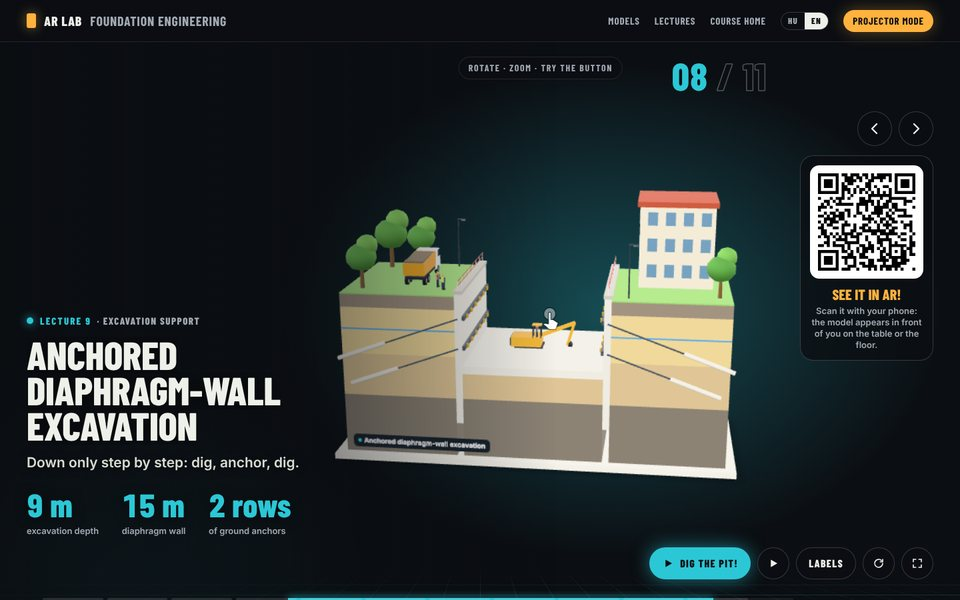
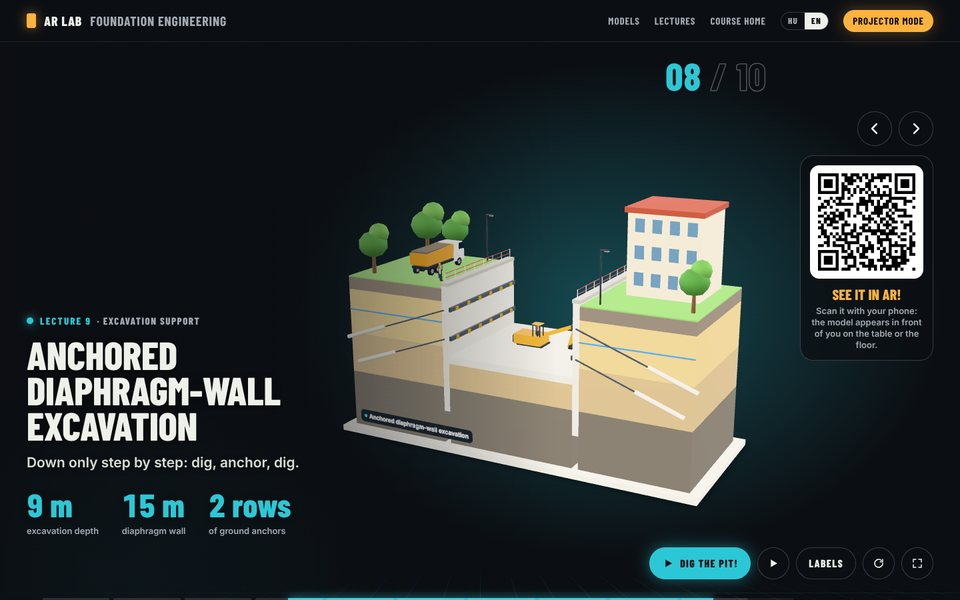
Nyitóoldal: az AR labor kártyaképe új néven (ar-labor3), hogy a gyorsítótár ne a régit mutassa
Az /img alatti képek egy hétig gyorsítótárazódnak, ezért a megújult kártyakép új fájlnevet kap;
a korábbi ar-labor2 képek változatlanul megmaradnak (már nincs rájuk hivatkozás).

Claude-Session: https://claude.ai/code/session_01K6m2UEhsxB7yVkYJfvnvra

Changed region(s): [[0.3438, 0.3, 0.7812, 0.84], [0.6875, 0.09, 0.8125, 0.15], [0.4688, 0.09, 0.6562, 0.12]]

diff --git a/en.html b/en.html
@@ -1716,7 +1716,7 @@ const XS = (() => {
     { t: 'One site, one semester', u: 'bme-alapozas.vercel.app/telek', en: 'bme-alapozas.vercel.app/telek/en', img: 'telek-en', lab: '1–9', d: 'Nine stations on a single site: you are the geotechnical engineer, and with every task you solve the 3D model of the two buildings grows further, from investigating the ground to the last floor slab.' },
     { t: 'Geotechnical CSI', u: 'bme-alapozas.vercel.app/helyszinelok', en: 'bme-alapozas.vercel.app/helyszinelok/en', img: 'helyszinelok-en', lab: '3–9', d: 'Real and typical foundation failure cases: work out from the clues what happened and what would have prevented it. With ranks, points and a crack-reading game.' },
     { t: 'Guess, then calculate', u: 'bme-alapozas.vercel.app/tippelj', en: 'bme-alapozas.vercel.app/tippelj/en', img: 'tippelj-en', lab: '1–9', d: 'Estimation questions for every lecture: first you guess on a logarithmic scale, then you check the calculation. In lectures, in projector mode with a QR code.' },
-    { t: 'Foundation Engineering AR lab', u: 'bme-alapozas.vercel.app/ar-labor', en: 'bme-alapozas.vercel.app/ar-labor/en', img: 'ar-labor2-en', lab: '1–9', d: 'Eleven moving 3D models in augmented reality – bearing failure, the pressure bulb and the influence depth, the Leaning Tower of Pisa, a shaking table, a CFA pile, an excavation, the finished site and four real sites from MOL Campus to the Museum of Ethnography. On a phone you can place them on a table or the floor and walk around them.' },
+    { t: 'Foundation Engineering AR lab', u: 'bme-alapozas.vercel.app/ar-labor', en: 'bme-alapozas.vercel.app/ar-labor/en', img: 'ar-labor3-en', lab: '1–9', d: 'Eleven moving 3D models in augmented reality – bearing failure, the pressure bulb and the influence depth, the Leaning Tower of Pisa, a shaking table, a CFA pile, an excavation, the finished site and four real sites from MOL Campus to the Museum of Ethnography. On a phone you can place them on a table or the floor and walk around them.' },
   ];
   X.forEach(a => { el('a', { cls: 'ac wide', href: AU(a), target: '_blank', rel: 'noopener', style: '--c:var(--accent)' }, box, `<span class="im"><img src="img/apps/${a.img}.jpg" alt="${a.t} – opening screen" loading="lazy" width="960" height="600"><i>${a.lab}</i></span><span class="tx"><b>${a.t}</b><span>${AT(a)}</span><p class="acd">${a.d}</p><em>${a.en ? 'Open' : 'Open · in Hungarian'} ↗</em></span>`);
     el('li', {}, fl, `<i>${a.lab}</i><a href="${AU(a)}" target="_blank" rel="noopener">${a.t}</a>${EN && !a.en ? ' <span class="inhu">HU</span>' : ''}`); });

diff --git a/index.html b/index.html
@@ -1717,7 +1717,7 @@ const XS = (() => {
     { t: 'Egy telek, egy félév', u: 'bme-alapozas.vercel.app/telek', img: 'telek', lab: '1–9', d: 'Kilenc állomás egyetlen telken: te vagy a geotechnikus, és minden megoldott feladattal tovább épül a két ház 3D-makettje, a talaj megismerésétől az utolsó födémig.' },
     { t: 'Geotechnikai helyszínelők', u: 'bme-alapozas.vercel.app/helyszinelok', en: 'bme-alapozas.vercel.app/helyszinelok/en', img: 'helyszinelok', lab: '3–9', d: 'Valós és tipikus alapozási kárügyek: a nyomokból kell kideríteni, mi történt, és mi előzte volna meg. Rangokkal, pontokkal és repedésolvasó játékkal.' },
     { t: 'Tippelj, aztán számolj', u: 'bme-alapozas.vercel.app/tippelj', en: 'bme-alapozas.vercel.app/tippelj/en', img: 'tippelj', lab: '1–9', d: 'Becslős kérdések minden előadáshoz: előbb tippelsz egy logaritmikus skálán, aztán megnézed a számítást. Előadáson kivetítő módban, QR-kóddal.' },
-    { t: 'Alapozás AR labor', u: 'bme-alapozas.vercel.app/ar-labor', img: 'ar-labor2', lab: '1–9', d: 'Tizenegy mozgó 3D-modell kiterjesztett valóságban – talajtörés, feszültséghagyma és határmélység, a pisai torony, rázóasztal, CFA-cölöp, munkagödör, a kész telek és négy valós helyszín a MOL Campustól a Néprajzi Múzeumig. Telefonon az asztalra vagy a padlóra tehetők, körbejárhatók.' },
+    { t: 'Alapozás AR labor', u: 'bme-alapozas.vercel.app/ar-labor', img: 'ar-labor3', lab: '1–9', d: 'Tizenegy mozgó 3D-modell kiterjesztett valóságban – talajtörés, feszültséghagyma és határmélység, a pisai torony, rázóasztal, CFA-cölöp, munkagödör, a kész telek és négy valós helyszín a MOL Campustól a Néprajzi Múzeumig. Telefonon az asztalra vagy a padlóra tehetők, körbejárhatók.' },
   ];
   X.forEach(a => { el('a', { cls: 'ac wide', href: AU(a), target: '_blank', rel: 'noopener', style: '--c:var(--accent)' }, box, `<span class="im"><img src="img/apps/${a.img}.jpg" alt="${a.t} – nyitókép" loading="lazy" width="960" height="600"><i>${a.lab}</i></span><span class="tx"><b>${a.t}</b><span>${AT(a)}</span><p class="acd">${a.d}</p><em>Megnyitás ↗</em></span>`);
     el('li', {}, fl, `<i>${a.lab}</i><a href="${AU(a)}" target="_blank" rel="noopener">${a.t}</a>${EN && !a.en ? ' <span class="inhu">HU</span>' : ''}`); });

diff --git a/_src/app.js b/_src/app.js
@@ -587,7 +587,7 @@ const XS = (() => {
     { t: 'Egy telek, egy félév', u: 'bme-alapozas.vercel.app/telek', img: 'telek', lab: '1–9', d: 'Kilenc állomás egyetlen telken: te vagy a geotechnikus, és minden megoldott feladattal tovább épül a két ház 3D-makettje, a talaj megismerésétől az utolsó födémig.' },
     { t: 'Geotechnikai helyszínelők', u: 'bme-alapozas.vercel.app/helyszinelok', en: 'bme-alapozas.vercel.app/helyszinelok/en', img: 'helyszinelok', lab: '3–9', d: 'Valós és tipikus alapozási kárügyek: a nyomokból kell kideríteni, mi történt, és mi előzte volna meg. Rangokkal, pontokkal és repedésolvasó játékkal.' },
     { t: 'Tippelj, aztán számolj', u: 'bme-alapozas.vercel.app/tippelj', en: 'bme-alapozas.vercel.app/tippelj/en', img: 'tippelj', lab: '1–9', d: 'Becslős kérdések minden előadáshoz: előbb tippelsz egy logaritmikus skálán, aztán megnézed a számítást. Előadáson kivetítő módban, QR-kóddal.' },
-    { t: 'Alapozás AR labor', u: 'bme-alapozas.vercel.app/ar-labor', img: 'ar-labor2', lab: '1–9', d: 'Tizenegy mozgó 3D-modell kiterjesztett valóságban – talajtörés, feszültséghagyma és határmélység, a pisai torony, rázóasztal, CFA-cölöp, munkagödör, a kész telek és négy valós helyszín a MOL Campustól a Néprajzi Múzeumig. Telefonon az asztalra vagy a padlóra tehetők, körbejárhatók.' },
+    { t: 'Alapozás AR labor', u: 'bme-alapozas.vercel.app/ar-labor', img: 'ar-labor3', lab: '1–9', d: 'Tizenegy mozgó 3D-modell kiterjesztett valóságban – talajtörés, feszültséghagyma és határmélység, a pisai torony, rázóasztal, CFA-cölöp, munkagödör, a kész telek és négy valós helyszín a MOL Campustól a Néprajzi Múzeumig. Telefonon az asztalra vagy a padlóra tehetők, körbejárhatók.' },
   ];
   X.forEach(a => { el('a', { cls: 'ac wide', href: AU(a), target: '_blank', rel: 'noopener', style: '--c:var(--accent)' }, box, `<span class="im"><img src="img/apps/${a.img}.jpg" alt="${a.t} – nyitókép" loading="lazy" width="960" height="600"><i>${a.lab}</i></span><span class="tx"><b>${a.t}</b><span>${AT(a)}</span><p class="acd">${a.d}</p><em>Megnyitás ↗</em></span>`);
     el('li', {}, fl, `<i>${a.lab}</i><a href="${AU(a)}" target="_blank" rel="noopener">${a.t}</a>${EN && !a.en ? ' <span class="inhu">HU</span>' : ''}`); });

diff --git a/_src/i18n_en.py b/_src/i18n_en.py
@@ -398,7 +398,7 @@ JS = [
      "{ t: 'Geotechnical CSI', u: 'bme-alapozas.vercel.app/helyszinelok', en: 'bme-alapozas.vercel.app/helyszinelok/en', img: 'helyszinelok-en', lab: '3–9', d: 'Real and typical foundation failure cases: work out from the clues what happened and what would have prevented it. With ranks, points and a crack-reading game.' },"),
     ("{ t: 'Tippelj, aztán számolj', u: 'bme-alapozas.vercel.app/tippelj', en: 'bme-alapozas.vercel.app/tippelj/en', img: 'tippelj', lab: '1–9', d: 'Becslős kérdések minden előadáshoz: előbb tippelsz egy logaritmikus skálán, aztán megnézed a számítást. Előadáson kivetítő módban, QR-kóddal.' },",
      "{ t: 'Guess, then calculate', u: 'bme-alapozas.vercel.app/tippelj', en: 'bme-alapozas.vercel.app/tippelj/en', img: 'tippelj-en', lab: '1–9', d: 'Estimation questions for every lecture: first you guess on a logarithmic scale, then you check the calculation. In lectures, in projector mode with a QR code.' },"),
-    ("{ t: 'Alapozás AR labor', u: 'bme-alapozas.vercel.app/ar-labor', img: 'ar-labor2', lab: '1–9', d: 'Tizenegy mozgó 3D-modell kiterjesztett valóságban – talajtörés, feszültséghagyma és határmélység, a pisai torony, rázóasztal, CFA-cölöp, munkagödör, a kész telek és négy valós helyszín a MOL Campustól a Néprajzi Múzeumig. Telefonon az asztalra vagy a padlóra tehetők, körbejárhatók.' },",
-     "{ t: 'Foundation Engineering AR lab', u: 'bme-alapozas.vercel.app/ar-labor', en: 'bme-alapozas.vercel.app/ar-labor/en', img: 'ar-labor2-en', lab: '1–9', d: 'Eleven moving 3D models in augmented reality – bearing failure, the pressure bulb and the influence depth, the Leaning Tower of Pisa, a shaking table, a CFA pile, an excavation, the finished site and four real sites from MOL Campus to the Museum of Ethnography. On a phone you can place them on a table or the floor and walk around them.' },"),
+    ("{ t: 'Alapozás AR labor', u: 'bme-alapozas.vercel.app/ar-labor', img: 'ar-labor3', lab: '1–9', d: 'Tizenegy mozgó 3D-modell kiterjesztett valóságban – talajtörés, feszültséghagyma és határmélység, a pisai torony, rázóasztal, CFA-cölöp, munkagödör, a kész telek és négy valós helyszín a MOL Campustól a Néprajzi Múzeumig. Telefonon az asztalra vagy a padlóra tehetők, körbejárhatók.' },",
+     "{ t: 'Foundation Engineering AR lab', u: 'bme-alapozas.vercel.app/ar-labor', en: 'bme-alapozas.vercel.app/ar-labor/en', img: 'ar-labor3-en', lab: '1–9', d: 'Eleven moving 3D models in augmented reality – bearing failure, the pressure bulb and the influence depth, the Leaning Tower of Pisa, a shaking table, a CFA pile, an excavation, the finished site and four real sites from MOL Campus to the Museum of Ethnography. On a phone you can place them on a table or the floor and walk around them.' },"),
     ("href: U('bme-alapozas.vercel.app/ar-labor/')", "href: U('bme-alapozas.vercel.app/ar-labor/en')"),
 ]
